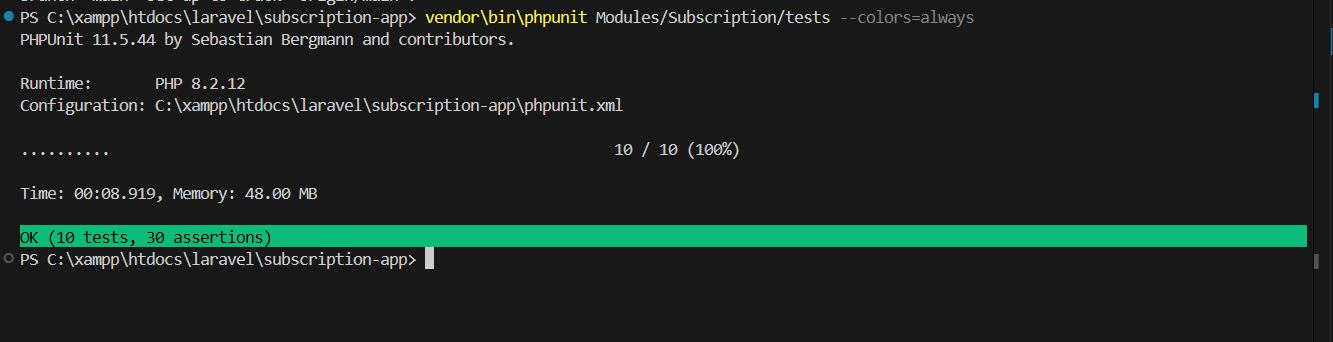
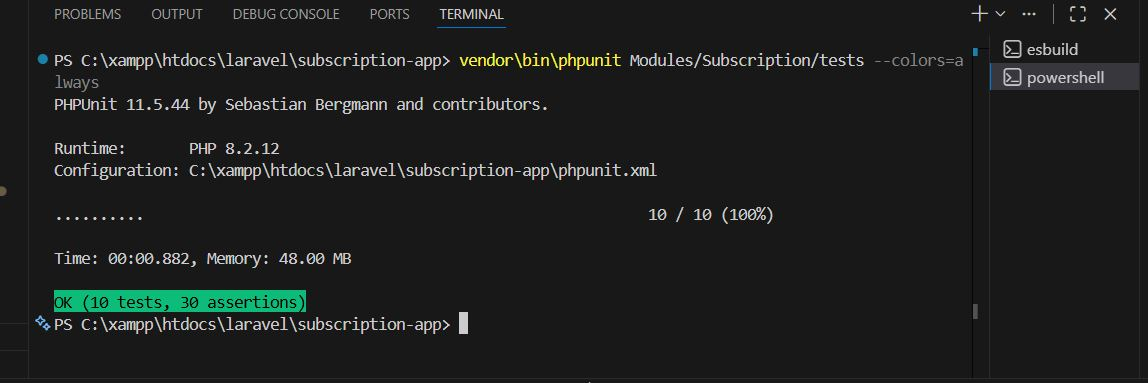
update seeder example with image

diff --git a/Modules/Subscription/database/seeders/SubscriptionSeeder.php b/Modules/Subscription/database/seeders/SubscriptionSeeder.php
@@ -12,61 +12,72 @@ class SubscriptionSeeder extends Seeder
 {
     public function run(): void
     {
+
         $user = User::first() ?? User::factory()->create([
             'name' => 'Test User',
             'email' => 'admin@alaaezz.com',
             'password' => bcrypt('password123'),
             'role' => 'admin',
         ]);
+        // 1⃣ Users
+        $users = User::factory()->count(50)->create();
 
-        $plan = Plan::first() ?? Plan::create([
-            'name' => 'Test Plan',
-            'price' => 10,
-            'duration_days' => 30,
-        ]);
+        // 2⃣ Plans
+        $plans = collect(range(1, 5))->map(function ($i) {
+            return Plan::create([
+                'name' => "Plan {$i}",
+                'price' => $i * 10,
+                'duration_days' => 30,
+            ]);
+        });
 
-        $user = User::first() ?? User::factory()->create();
+        // 3⃣ Subscriptions
+        foreach ($users as $user) {
+            foreach ($plans as $plan) {
 
-        // 1⃣ Trial expired
-        Subscription::create([
-            'user_id' => $user->id,
-            'plan_id' => $plan->id,
-            'type' => 'trial',
-            'status' => 'active',
-            'trial_end_at' => Carbon::now()->subMinutes(1),
-            'started_at' => Carbon::now()->subDays(7),
-        ]);
+                $rand = rand(1, 100);
 
-        // 2⃣ Trial active
-        Subscription::create([
-            'user_id' => $user->id,
-            'plan_id' => $plan->id,
-            'type' => 'trial',
-            'status' => 'active',
-            'trial_end_at' => Carbon::now()->addDays(3),
-            'started_at' => Carbon::now(),
-        ]);
+                // 🟢 Paid Active (60%)
+                if ($rand <= 60) {
+                    Subscription::create([
+                        'user_id' => $user->id,
+                        'plan_id' => $plan->id,
+                        'type' => 'paid',
+                        'status' => 'active',
+                        'started_at' => Carbon::now()->subDays(rand(1, 20)),
+                        'ended_at' => null,
+                        'trial_end_at' => null,
+                    ]);
+                }
 
-        // 3⃣ Paid active
-        Subscription::create([
-            'user_id' => $user->id,
-            'plan_id' => $plan->id,
-            'type' => 'paid',
-            'status' => 'active',
-            'trial_end_at' => null,
-            'started_at' => Carbon::now()->subDays(10),
-            'ended_at' => null,
-        ]);
+                // 🟡 Trial Active (20%)
+                elseif ($rand <= 80) {
+                    Subscription::create([
+                        'user_id' => $user->id,
+                        'plan_id' => $plan->id,
+                        'type' => 'trial',
+                        'status' => 'active',
+                        'started_at' => Carbon::now()->subDays(rand(1, 3)),
+                        'trial_end_at' => Carbon::now()->addDays(rand(1, 5)),
+                        'ended_at' => null,
+                    ]);
+                }
 
-        // 4⃣ Paid expired
-        Subscription::create([
-            'user_id' => $user->id,
-            'plan_id' => $plan->id,
-            'type' => 'paid',
-            'status' => 'expired',
-            'trial_end_at' => null,
-            'started_at' => Carbon::now()->subDays(30),
-            'ended_at' => Carbon::now()->subDays(1),
-        ]);
+                // 🔴 Expired (20%)
+                else {
+                    $isTrial = rand(0, 1);
+
+                    Subscription::create([
+                        'user_id' => $user->id,
+                        'plan_id' => $plan->id,
+                        'type' => $isTrial ? 'trial' : 'paid',
+                        'status' => 'expired',
+                        'started_at' => Carbon::now()->subDays(40),
+                        'trial_end_at' => $isTrial ? Carbon::now()->subDays(30) : null,
+                        'ended_at' => Carbon::now()->subDays(10),
+                    ]);
+                }
+            }
+        }
     }
 }

diff --git a/routes/console.php b/routes/console.php
@@ -8,4 +8,4 @@ Artisan::command('inspire', function () {
     $this->comment(Inspiring::quote());
 })->purpose('Display an inspiring quote');
 
-Schedule::command("subscriptions:convert-trials")->everyMinute();
+Schedule::command("subscriptions:convert-trials")->daily();
